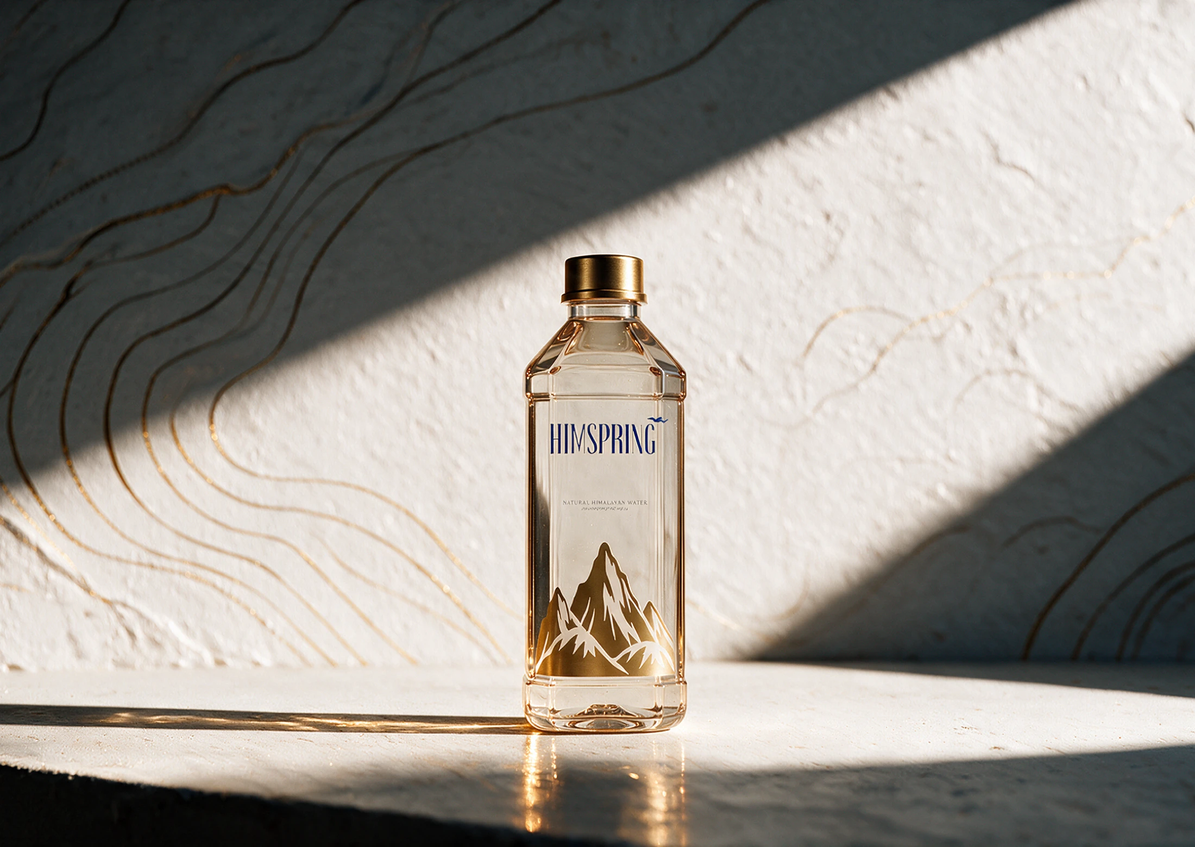
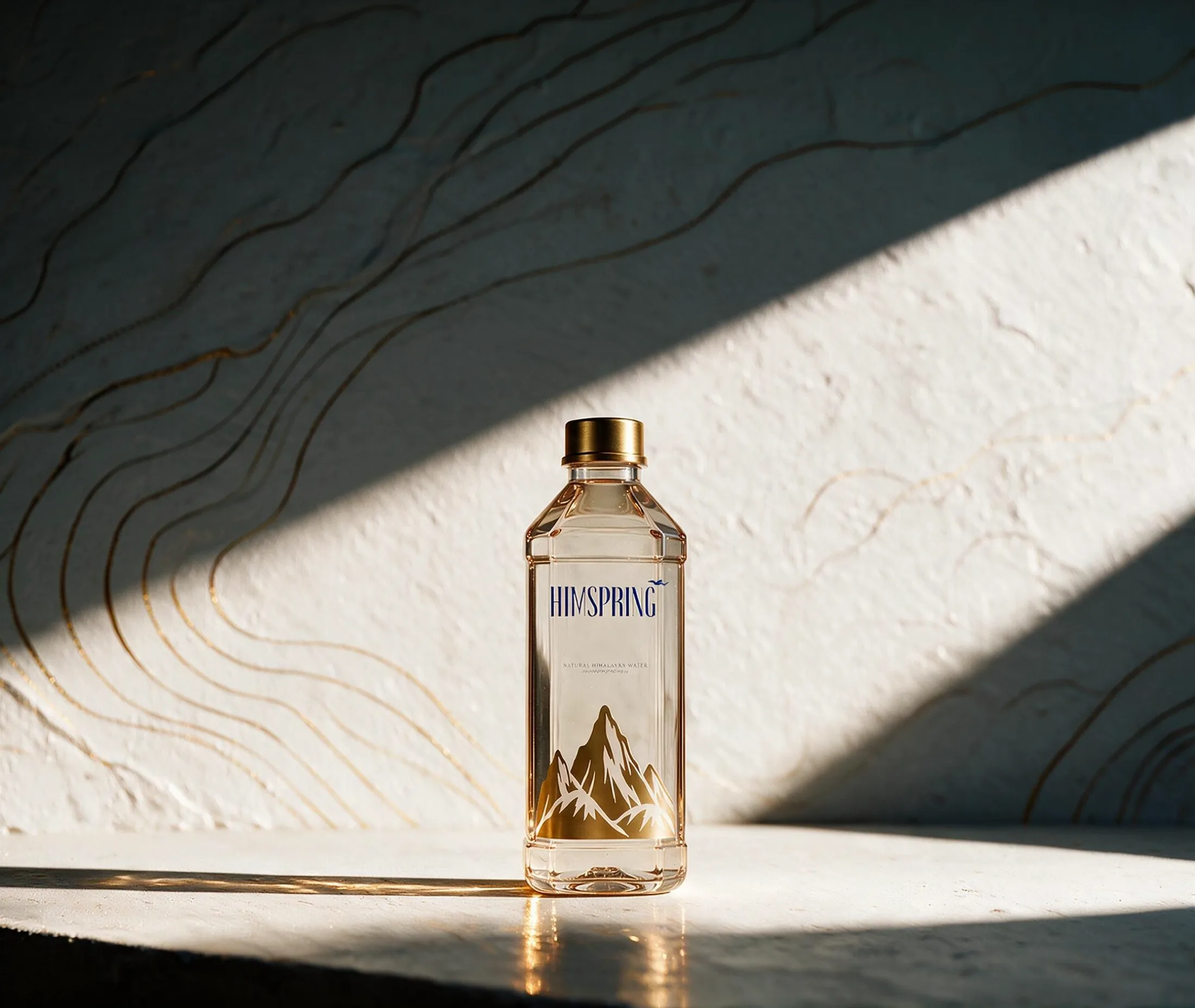
Real headroom on the family plates, and Sparkling as a third format
The six existing plates were carrying their headroom as a flat grey band
padded onto the top edge — the panel copy sat on it and it read as a bare
strip rather than as part of the photograph. Re-outpainted from the
committed originals so the wall, its gold contours and the diagonal shadow
carry on upward for real. The bottle pixels are untouched: only the new
headroom is generated, so the caps clear both the nav and the volume copy
at the geometry that was already measured.

Sparkling joins Glass and PET behind the same switch. FormatId widens to
three, and the plates are a retouch of the glass three rather than a fresh
shoot, so all nine share one staging, one light and one framing per
station. The 500 and 330 are derived from the 750 by expanding its frame
outward — the same move the glass 500 was made with, and here it is what
puts identical label pixels on all three rather than three separate
re-letterings of the same words.

No cut-out renders for sparkling: the family stopped using them when the
bottle moved into the plate, and the two callers that still mount one name
glass literally. BottleField's variant narrows to BottleSVG's own pair,
which is all that was ever drawn.

.claude/launch.json takes autoPort so a dev server can come up alongside
one already holding 3000.

diff --git a/app/(home)/v2/lib/family.ts b/app/(home)/v2/lib/family.ts
@@ -1,6 +1,6 @@
 import type { FormatId } from "./formats";
 
-/* The family — the same water in three sizes, in each of the two vessels.
+/* The family — the same water in three sizes, in each of the three formats.
 
    Where the old Glass/PET pair argued "same water, different vessel", this
    argues "same vessel, different amount". That is a harder thing to show,
@@ -9,8 +9,8 @@ import type { FormatId } from "./formats";
    shared baseline. So the panels are deliberately anchored to the same bottom
    edge — the bottle grows upward across each split rather than being re-staged.
 
-   Two families now, keyed by format, because the section grew a switch. They are
-   never on screen together: the switch replaces one with the other in place.
+   Three families now, keyed by format, because the section grew a switch. They
+   are never on screen together: the switch replaces one with another in place.
 
    `ml` is the only number the ladder is derived from — see scaleFor below. It is
    not decoration and it is not the same thing as `name`: `name` is what the
@@ -94,25 +94,37 @@ export type PanelGround = {
 export const PANEL_GROUNDS: readonly [PanelGround, PanelGround, PanelGround] = [
   {
     id: "750",
-    src: { glass: "/assets/family-750-glass.webp", pet: "/assets/family-750-pet.webp" },
+    src: {
+      glass: "/assets/family-750-glass.webp",
+      pet: "/assets/family-750-pet.webp",
+      sparkling: "/assets/family-750-sparkling.webp",
+    },
     tone: "#eae5df",
     focus: "50% 50%",
   },
   {
     id: "500",
-    src: { glass: "/assets/family-500-glass.webp", pet: "/assets/family-500-pet.webp" },
+    src: {
+      glass: "/assets/family-500-glass.webp",
+      pet: "/assets/family-500-pet.webp",
+      sparkling: "/assets/family-500-sparkling.webp",
+    },
     tone: "#ecdecb",
     focus: "50% 50%",
   },
   {
     id: "330",
-    src: { glass: "/assets/family-330-glass.webp", pet: "/assets/family-330-pet.webp" },
+    src: {
+      glass: "/assets/family-330-glass.webp",
+      pet: "/assets/family-330-pet.webp",
+      sparkling: "/assets/family-330-sparkling.webp",
+    },
     tone: "#e6cfaf",
     focus: "50% 50%",
   },
 ];
 
-/* The ladder is anchored here rather than per family, so the two formats share
+/* The ladder is anchored here rather than per family, so all three formats share
    one scale and the switch is honest: if a PET size is bigger than any glass
    size, it stands taller on screen. Anchoring each family at its own largest
    would make both look identical and quietly throw that away.
@@ -213,6 +225,34 @@ export const FAMILIES: Readonly<Record<FormatId, Family>> = {
       name: "330 ml",
       ml: 330,
       note: "The compact format. Lightweight, elegant, and perfectly proportioned.",
+    },
+  ],
+
+  /* Sparkling stands on the glass volumes, and does so honestly: it is the same
+     glass bottle with a navy cap, so the three sizes are the glass three. If the
+     sparkling line ever ships a different set, this is the only place it is
+     written down. */
+  sparkling: [
+    {
+      id: "sparkling-750",
+      label: "Size 01",
+      name: "750 ml",
+      ml: 750,
+      note: "The table bottle. Poured into a glass and finished with the meal.",
+    },
+    {
+      id: "sparkling-500",
+      label: "Size 02",
+      name: "500 ml",
+      ml: 500,
+      note: "The everyday pour. Carbonated Himalayan water, kept close.",
+    },
+    {
+      id: "sparkling-330",
+      label: "Size 03",
+      name: "330 ml",
+      ml: 330,
+      note: "The single serve. One glass of sparkling, poured cold.",
     },
   ],
 };

diff --git a/app/(home)/v2/lib/formats.ts b/app/(home)/v2/lib/formats.ts
@@ -7,17 +7,24 @@
    rather than left sitting here looking current.
 
    What survives is the identifier, because format and size are orthogonal axes
-   and the shots are still per-format: two vessels, three volumes. lib/family.ts
+   and the shots are still per-format: three formats, three volumes. lib/family.ts
    carries a `bottle: FormatId` on every size for exactly that reason. Keeping
    them in separate modules is what stops a later "add a 1 litre" from quietly
    meaning "add a third format".
 
-   PET now appears in the family section, behind a switch. Glass is what the
-   section opens on and PET is not rendered at all until the switch is used —
-   which is the point of a switch rather than six panels in sequence: the second
-   format costs the reader nothing until they ask for it. */
+   PET and Sparkling now appear in the family section, behind a switch. Glass is
+   what the section opens on and the other two are not rendered at all until the
+   switch is used — which is the point of a switch rather than nine panels in
+   sequence: the second and third format cost the reader nothing until they ask
+   for them.
 
-export type FormatId = "glass" | "pet";
+   Sparkling is a third format rather than a fourth size, and the distinction is
+   the one this module exists to hold: it is the same three volumes in the same
+   vessel, carrying different water and a different cap. It gets its own plates
+   for the same reason PET does — the bottle is photographed into its ground, so
+   a navy cap is not something CSS can add to a glass plate. */
+
+export type FormatId = "glass" | "pet" | "sparkling";
 
 /* Display order, and the order the switch lays its options out in. Glass first
    because it is the default and the section's opening state; a control whose
@@ -25,4 +32,5 @@ export type FormatId = "glass" | "pet";
 export const FORMATS: readonly { readonly id: FormatId; readonly label: string }[] = [
   { id: "glass", label: "Glass" },
   { id: "pet", label: "PET" },
+  { id: "sparkling", label: "Sparkling" },
 ];

diff --git a/app/(home)/v2/components/FormatBottle.tsx b/app/(home)/v2/components/FormatBottle.tsx
@@ -117,6 +117,14 @@ const SRC: Readonly<Record<FormatId, Readonly<Partial<Record<BottleGroundId, str
        only edit. */
     "330": "/assets/bottle-pet-500.webp",
   },
+  /* No cut-outs for sparkling, deliberately. The family section stopped using
+     these when the bottle moved into the plate, and sparkling arrived after
+     that — so it has plates and no renders. The two places that still mount a
+     cut-out (the intro's rise and /purity) both name "glass" literally, so an
+     empty map here is not a hole waiting to be hit: it is the accurate statement
+     that this format was never shot as a cut-out. Fill it if one is ever
+     wanted. */
+  sparkling: {},
 };
 
 export default function FormatBottle({

diff --git a/app/(home)/v2/components/BottleField.tsx b/app/(home)/v2/components/BottleField.tsx
@@ -1,6 +1,5 @@
 import type { CSSProperties } from "react";
 import { FIELD, MAX_DELAY } from "../lib/field";
-import type { FormatId } from "../lib/formats";
 import BottleSVG from "./BottleSVG";
 
 /* The scattered bottles behind a format panel.
@@ -24,7 +23,9 @@ export default function BottleField({
      reveal starts. */
   reverse = false,
 }: {
-  readonly variant: FormatId;
+  /* BottleSVG's own pair, not FormatId. These are drawn silhouettes and only
+     two were ever drawn; a third format has plates, not a path. */
+  readonly variant: "glass" | "pet";
   readonly reverse?: boolean;
 }) {
   return (

diff --git a/app/(home)/v2/deck.css b/app/(home)/v2/deck.css
@@ -2341,7 +2341,7 @@
     width: max-content; margin-inline: auto;
     background: var(--hsv-snow);
   }
-  /* The crossfade between the two vessels is a dissolve, not a movement, but it
+  /* The crossfade between formats is a dissolve, not a movement, but it
      is still 340ms of the page changing under someone who asked it not to. */
   .hsv-ground { transition: none }
   /* relative rather than static, for the containing-block reason set out in the
